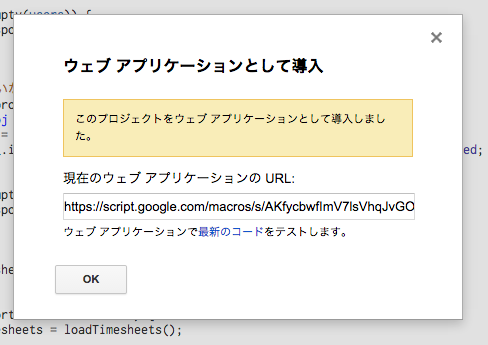
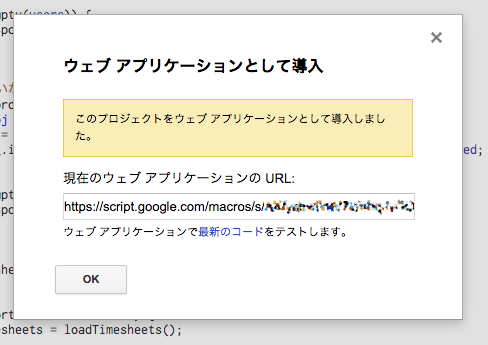
ドキュメントの画像調整

Changed region(s): [[0.5225, 0.5797, 0.8607, 0.6377]]

diff --git a/README.md b/README.md
@@ -37,33 +37,37 @@ Slackで下記の様につぶやくと、みやもとさんがGoogle Spreadsheet
 ### プログラム本体を設置
 
 - https://drive.google.com/ を開いて画面右にある、赤い「作成」ボタンを押します。
-![drive1](https://raw.githubusercontent.com/masuidrive/miyamoto/master/docs/images/drive1.png)
 - 最下部の「アプリを追加」を押してダイアログを開きます。
-- ダイアログの検索ボックスに「script」と入力してリストに出てきた「Google Apps Script」の「＋接続」ボタンを押します。 ![drive2](https://raw.githubusercontent.com/masuidrive/miyamoto/master/docs/images/drive2.png)
+- ダイアログの検索ボックスに「script」と入力してリストに出てきた「Google Apps Script」の「＋接続」ボタンを押します。
+
+![drive0](https://raw.githubusercontent.com/masuidrive/miyamoto/master/docs/images/drive0.png)
+
+
 - もう一度「作成」ボタンを押して「スクリプト」選択します。
 - 「スクリプトを作成」の下にある「空のプロジェクト」を選択します。
-- ![gas01](https://raw.githubusercontent.com/masuidrive/miyamoto/master/docs/images/gas01.png)
 - 新しいスクリプトを作る画面へ遷移するので、左上の「無題のプロジェクト」をクリックして、「Miyamoto-san」に変更します。
-- ![gas02](https://raw.githubusercontent.com/masuidrive/miyamoto/master/docs/images/gas02.png)
 - [main.gs](https://raw.githubusercontent.com/masuidrive/miyamoto/master/main.gs)をコピーして、ブラウザ内のエディタ部に貼り付けます。
 - メニューから「ファイル」→「保存」を選択して保存します。
+
+![gas03](https://raw.githubusercontent.com/masuidrive/miyamoto/master/docs/images/gas03.png)
 
 
 ### 初期化
 
 - ツールバーの「関数を選択」から「setUp」を選び、左の再生ボタンを押します。
-- ![gas11](https://raw.githubusercontent.com/masuidrive/miyamoto/master/docs/images/gas11.png)
+
+![gas11](https://raw.githubusercontent.com/masuidrive/miyamoto/master/docs/images/gas11.png)
+
 - 権限の承認画面が出たら「承認する」を押してください。
-- ![gas12](https://raw.githubusercontent.com/masuidrive/miyamoto/master/docs/images/gas12.png)
 - Google Drive上に「Slack Timesheets」というSpreadsheetが生成されます。
 
 
 ### APIの公開
 
 - メニューから「公開」→「ウェブアプリケーションとして導入...」を選びます。
-- ![gas21](https://raw.githubusercontent.com/masuidrive/miyamoto/master/docs/images/gas21.png)
 - 先に「新しいバージョンを保存」ボタンを押した後、「アプリケーションにアクセスできるユーザ」から「全員（匿名ユーザを含む）」を選択します。
-- ![gas22](https://raw.githubusercontent.com/masuidrive/miyamoto/master/docs/images/gas22.png)
+
+![gas20](https://raw.githubusercontent.com/masuidrive/miyamoto/master/docs/images/gas20.png)
 
 - 「全員（匿名ユーザを含む）」が見つからない場合は、https://admin.google.com/ から「Google Apps」→「ドライブ」を選択して、「共有設定」の「ユーザは組織外のユーザとファイルを共有できる」を選択します。
 - ![admin1](https://raw.githubusercontent.com/masuidrive/miyamoto/master/docs/images/admin1.png)
